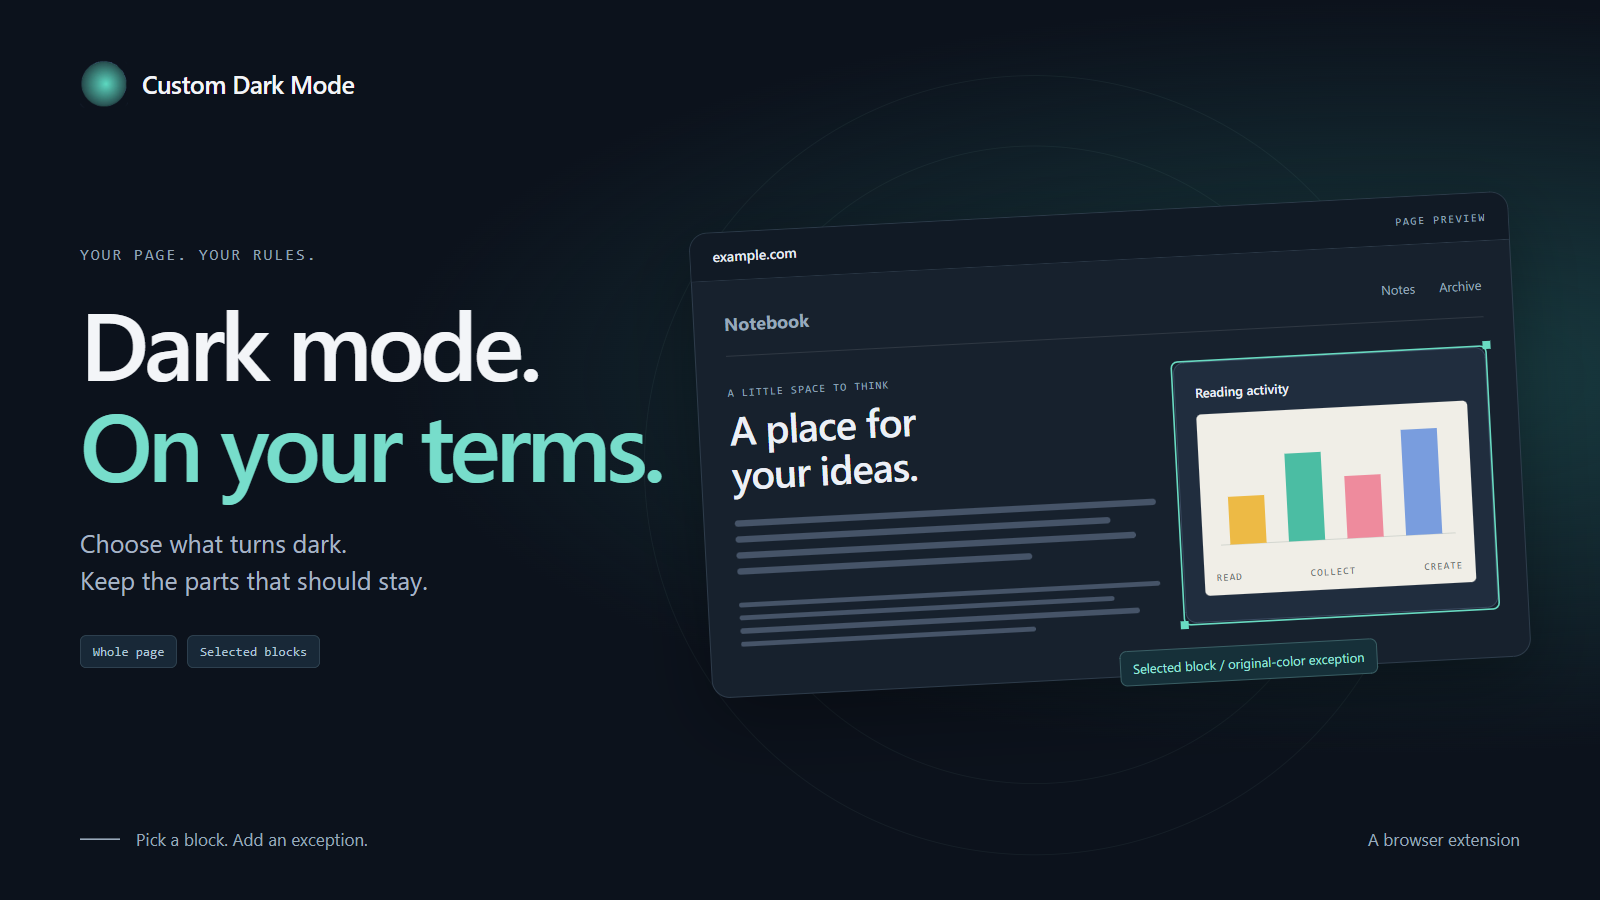
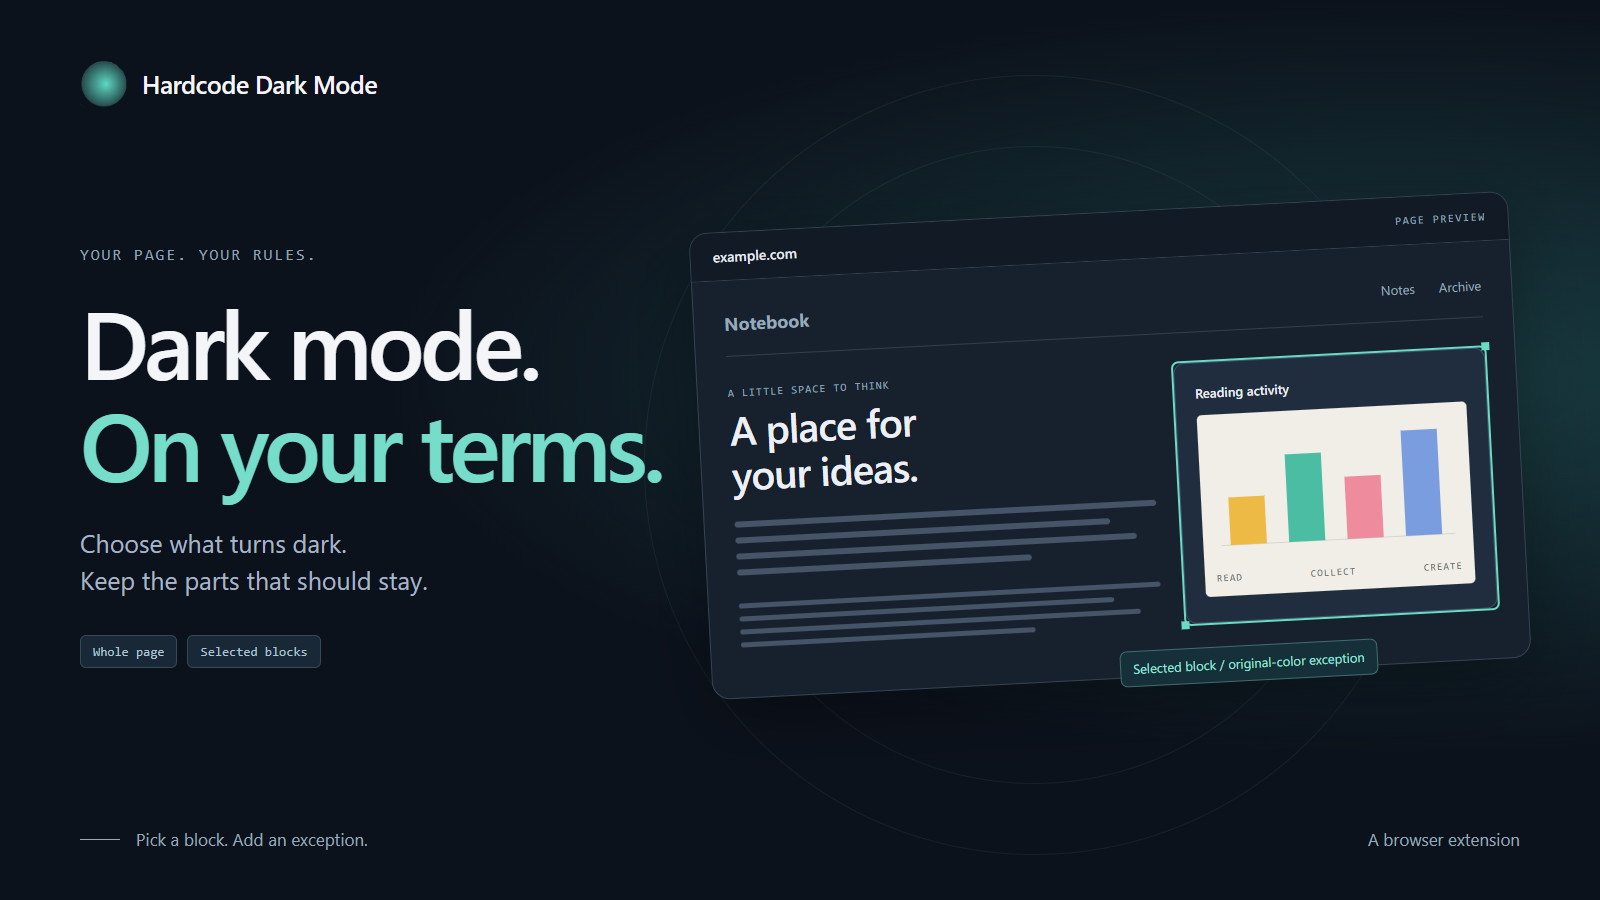
fix: use Hardcode Dark Mode branding consistently

diff --git a/popup/translations.js b/popup/translations.js
@@ -54,7 +54,7 @@
       backupHint: "The exported file holds the site library with all rules, the language and the sort order. On import, sites from the file replace the entries for the same sites; other sites stay.",
       backupExported: "Exported sites: {count}.",
       backupImported: "Imported sites: {count}.",
-      backupInvalid: "This is not a Custom Dark Mode settings file.",
+      backupInvalid: "This is not a Hardcode Dark Mode settings file.",
       backupImportFailed: "Could not import the settings.",
       backupExportFailed: "Could not export the settings.",
       siteEnabled: "Dark theme enabled for the site.",
@@ -116,7 +116,7 @@
       backupHint: "В файл экспорта попадают библиотека сайтов со всеми правилами, язык и порядок сортировки. При импорте сайты из файла заменяют записи тех же сайтов; остальные остаются.",
       backupExported: "Экспортировано сайтов: {count}.",
       backupImported: "Импортировано сайтов: {count}.",
-      backupInvalid: "Это не файл настроек Custom Dark Mode.",
+      backupInvalid: "Это не файл настроек Hardcode Dark Mode.",
       backupImportFailed: "Не удалось импортировать настройки.",
       backupExportFailed: "Не удалось экспортировать настройки.",
       siteEnabled: "Тёмная тема для сайта включена.",
@@ -178,7 +178,7 @@
       backupHint: "Файл експорту містить бібліотеку сайтів з усіма правилами, мову й порядок сортування. Під час імпорту сайти з файлу замінюють записи тих самих сайтів; решта залишається.",
       backupExported: "Експортовано сайтів: {count}.",
       backupImported: "Імпортовано сайтів: {count}.",
-      backupInvalid: "Це не файл налаштувань Custom Dark Mode.",
+      backupInvalid: "Це не файл налаштувань Hardcode Dark Mode.",
       backupImportFailed: "Не вдалося імпортувати налаштування.",
       backupExportFailed: "Не вдалося експортувати налаштування.",
       siteEnabled: "Темну тему для сайту ввімкнено.",
@@ -240,7 +240,7 @@
       backupHint: "Die Exportdatei enthält die Websitebibliothek mit allen Regeln, die Sprache und die Sortierung. Beim Import ersetzen Websites aus der Datei die Einträge derselben Websites; andere Einträge bleiben erhalten.",
       backupExported: "Exportierte Websites: {count}.",
       backupImported: "Importierte Websites: {count}.",
-      backupInvalid: "Dies ist keine Einstellungsdatei von Custom Dark Mode.",
+      backupInvalid: "Dies ist keine Einstellungsdatei von Hardcode Dark Mode.",
       backupImportFailed: "Die Einstellungen konnten nicht importiert werden.",
       backupExportFailed: "Die Einstellungen konnten nicht exportiert werden.",
       siteEnabled: "Dunkles Design für die Website aktiviert.",
@@ -302,7 +302,7 @@
       backupHint: "El archivo exportado contiene la biblioteca de sitios con todas las reglas, el idioma y el orden. Al importar, los sitios del archivo reemplazan las entradas de esos mismos sitios; las demás se conservan.",
       backupExported: "Sitios exportados: {count}.",
       backupImported: "Sitios importados: {count}.",
-      backupInvalid: "Este no es un archivo de ajustes de Custom Dark Mode.",
+      backupInvalid: "Este no es un archivo de ajustes de Hardcode Dark Mode.",
       backupImportFailed: "No se pudieron importar los ajustes.",
       backupExportFailed: "No se pudieron exportar los ajustes.",
       siteEnabled: "Tema oscuro activado para el sitio.",

diff --git a/popup/popup.html b/popup/popup.html
@@ -2,7 +2,7 @@
 <html lang="en">
   <head>
     <meta charset="utf-8" />
-    <title>Custom Dark Mode</title>
+    <title>Hardcode Dark Mode</title>
     <meta name="viewport" content="width=device-width, initial-scale=1" />
     <link rel="stylesheet" href="popup.css" />
   </head>
@@ -12,7 +12,7 @@
         <div class="brand">
           <div class="orb" aria-hidden="true"></div>
           <div class="brand-copy">
-            <div class="title">Custom Dark Mode</div>
+            <div class="title">Hardcode Dark Mode</div>
             <div class="subtitle" data-i18n="subtitle">Your page, your dark theme</div>
           </div>
         </div>

diff --git a/options/options.html b/options/options.html
@@ -2,7 +2,7 @@
 <html lang="en">
   <head>
     <meta charset="utf-8" />
-    <title>Custom Dark Mode</title>
+    <title>Hardcode Dark Mode</title>
     <meta name="viewport" content="width=device-width, initial-scale=1" />
     <link rel="stylesheet" href="options.css" />
   </head>
@@ -11,7 +11,7 @@
       <header class="brand">
         <div class="orb" aria-hidden="true"></div>
         <div>
-          <div class="title">Custom Dark Mode</div>
+          <div class="title">Hardcode Dark Mode</div>
           <h1 class="subtitle" data-i18n="backupTitle">Export and import settings</h1>
         </div>
       </header>

diff --git a/shared/backup.js b/shared/backup.js
@@ -18,7 +18,7 @@
     const data = await snapshot(chrome, language);
     const link = document.createElement("a");
     link.href = URL.createObjectURL(new Blob([JSON.stringify(data, null, 2)], { type: "application/json" }));
-    link.download = `custom-dark-mode-settings-${data.exportedAt.slice(0, 10)}.json`;
+    link.download = `hardcode-dark-mode-settings-${data.exportedAt.slice(0, 10)}.json`;
     link.click();
     URL.revokeObjectURL(link.href);
     return data.sites.length;

diff --git a/service_worker.js b/service_worker.js
@@ -365,7 +365,7 @@ chrome.runtime.onMessage.addListener((message, sender, sendResponse) => {
 function scheduleReconciliation() {
   return enqueue(reconcileUniversalSites).catch(() => {
     // Never log addresses, page text or arbitrary browser error messages.
-    console.warn("Custom Dark Mode: could not reconcile site settings.");
+    console.warn("Hardcode Dark Mode: could not reconcile site settings.");
   });
 }
 

diff --git a/PRIVACY.md b/PRIVACY.md
@@ -2,7 +2,7 @@
 
 Last updated: November 14, 2026
 
-Custom Dark Mode changes website colors according to rules you choose. It has no developer-operated servers, analytics, advertising, or remote code.
+Hardcode Dark Mode changes website colors according to rules you choose. It has no developer-operated servers, analytics, advertising, or remote code.
 
 ## Website access
 
@@ -10,7 +10,7 @@ The extension processes page structure, element attributes, and rendering inform
 
 Page contents, browsing activity, and theme rules are not sent to the developer or third parties by the extension.
 
-This information is used only to provide the theme controls you choose. It is not sold or used for advertising, profiling, or unrelated purposes. Custom Dark Mode's use of user information complies with the [Chrome Web Store User Data Policy](https://developer.chrome.com/docs/webstore/program-policies/policies#limited-use), including its Limited Use requirements.
+This information is used only to provide the theme controls you choose. It is not sold or used for advertising, profiling, or unrelated purposes. Hardcode Dark Mode's use of user information complies with the [Chrome Web Store User Data Policy](https://developer.chrome.com/docs/webstore/program-policies/policies#limited-use), including its Limited Use requirements.
 
 ## Saved settings
 

diff --git a/README.md b/README.md
@@ -1,4 +1,4 @@
-# Custom Dark Mode
+# Hardcode Dark Mode
 
 A Chrome extension for building a dark theme on each site: invert the whole page with exclusions, or invert only selected blocks.
 
